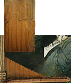
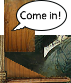
rivised seventh floor

Changed region(s): [[0.1408, 0.0, 0.9577, 0.3855], [0.7042, 0.1205, 0.8732, 0.241]]

diff --git a/fairyland/gallery.html b/fairyland/gallery.html
@@ -1,0 +1,72 @@
+<!DOCTYPE html>
+<html lang="en-US">
+  <head>
+    <meta charset="utf-8">
+    <title>Zhiyin's Name</title>
+    <meta name="author" content="Zhiyin Tan">
+    <meta name="description" content="Personal knowledge record fairyland: natural language processing(nlp), animation, thoughts">
+    <meta name="viewport" content="width=device-width, initial-scale=1.0">
+
+    <meta property="og:image" content="https://www.icloud.com/iclouddrive/0OuJofHg8h4NTxXeb0weLM3ng#Little_fox's_back-big" />
+    <meta property="og:description" content="Zhiyin Tan's fairyland.">
+    <meta property="og:title" content="Zhiyin's Fairyland" />
+    <meta property="og:type" content="website" />    
+
+    <link rel="Shortcut Icon" href="./pic/little_fox_round.ico" type="image/x-icon">
+
+    <link rel="stylesheet" href="../css/">
+    <style>
+        html, body{
+            background-color: rgb(255, 255, 255);
+            color: #313b3f;
+            font-family: -apple-system,BlinkMacSystemFont,Segoe UI,Roboto,Oxygen,Ubuntu,Cantarell,Open Sans,Helvetica Neue,sans-serif;
+            font-size: 1.6rem;line-height: 1.6em;font-weight: 400;font-style:normal;letter-spacing:0;
+            height: 100%;
+            overflow: auto;
+            padding: 0;
+            margin: 0;
+        }
+
+        #seventh-floor {
+            position: relative;
+            background: url('../pic/7th_floor_interior.png') no-repeat;
+            background-size: cover;
+            background-position: center;
+            background-repeat: no-repeat;
+        }
+    </style>
+
+    <script>
+        window.onload = window.onresize = function() {
+            var imageWidth = 1536; // image's width
+            var imageHeight = 1024; // image's height
+            var viewportWidth = window.innerWidth;
+            var viewportHeight = window.innerHeight;
+            var viewportAspectRatio = viewportWidth / viewportHeight;
+            var imageAspectRatio = imageWidth / imageHeight;
+
+            var backgroundDiv = document.getElementById('seventh-floor');
+
+            if (viewportAspectRatio > imageAspectRatio) {
+                backgroundDiv.style.width = viewportWidth + 'px';
+                backgroundDiv.style.height = (viewportWidth / imageAspectRatio) + 'px';
+            } else {
+                backgroundDiv.style.height = viewportHeight + 'px';
+                backgroundDiv.style.width = (viewportHeight * imageAspectRatio) + 'px';
+            }
+        }
+    </script>
+  </head>
+
+  <body>
+    <div id="seventh-floor">
+        <div id="paint-1">
+        </div>
+        <div id="paint-2">
+        </div>
+    </div>
+  </body>
+</html>
+
+
+

diff --git a/fairyland.html b/fairyland.html
@@ -96,7 +96,7 @@
                             </script>
                         </div>
 
-                        <!--6th floor right 1st window-->
+                        <!--6th floor right 1st window / 7th floor-->
                         <div>
                             <style>
                                 #sixth-floor-right-1-window-close:hover,
@@ -120,7 +120,7 @@
 
                             <script>
                                 function redirectToGallery() {
-                                    window.location.href = "./fairyland/fireworks.html"; // Replace with your URL
+                                    window.location.href = "./fairyland/gallery.html"; // Replace with your URL
                                 }
 
                                 function openSixRightWindow() {

diff --git a/css/index.css b/css/index.css
@@ -29,7 +29,7 @@ body{
   min-width: 100%;
   height: 100%;
   min-height: 100%;
-  padding: 0em 0em 0em 0em;
+  padding: 0;
   margin: 0;}
 
 
